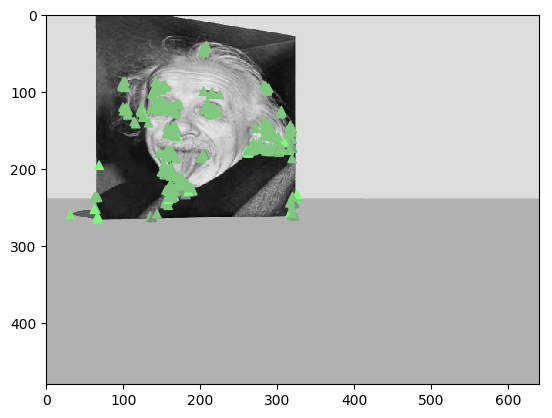
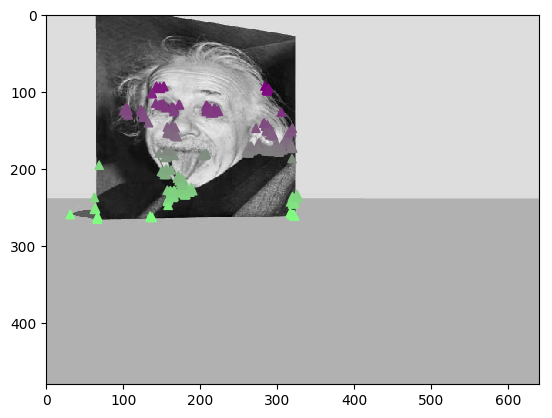
Add files via upload

diff --git a/l3_mapping.py b/l3_mapping.py
@@ -78,12 +78,12 @@ class FeatureProcessor:
             kp, des = self.get_features(img)
             matches = self.bf.match(des, des_0)
 
-            matches = sorted(matches, key=lambda x: x.distance)
+            #matches = sorted(matches, key=lambda x: x.distance)
             avg = sum(point.distance for point in matches)/len(matches)
 
             # lowes ratio test to get the good matches
             for match in matches:  # not sure if there's a better way to filter this
-                if match.distance < 0.75*avg:
+                if match.distance < 1.2*avg:
                     train_f_num = match.trainIdx
                     query_f_num = match.queryIdx
                     # print(train_f_num, query_f_num)
@@ -174,31 +174,56 @@ def triangulate(feature_data, tf, inv_K):
     :param tf: np array (num_images, 4, 4) - homogeneous transformations for each frame
     :param inv_K: np array (3, 3) - inverse of the camera intrinsics matrix
     :returns pt: np array (3, ) - point in 3D space """
-    # compute the unit normals in the direction of the feature
-    homogeneous_pts = np.hstack((feature_data, np.ones((tf.shape[0], 1))))
-    rays = np.zeros((67, 3), dtype=float)
-    for i in range(tf.shape[0]):
-        # check that the points are not -1 (i.e. no feature found) first.
-        if homogeneous_pts[i, 0] != -1 and homogeneous_pts[i, 1] != -1:
-            # print(np.dot(tf[i, 0:3, 0:3], np.dot(inv_K, homogeneous_pts[i, :]).T))
-            rays[i, :] = np.dot(tf[i, 0:3, 0:3], np.dot(inv_K, homogeneous_pts[i, :]).T)
-            # normalize the rays
-            rays[i, :] /= la.norm(rays[i, :])
 
-    # extract all the non-zero rays
-    rays = rays[~np.all(rays == 0, axis=1)]
-    # print(rays.shape)
-    # print(rays)
-
-    # compute the sums I - vj.T*vj and (I - vj.T*vj)*cj
+    tot_features = feature_data.shape[0]   #total number of features
     sum1 = np.zeros((3, 3), dtype=float)
-    sum2 = np.zeros((3,), dtype=float)
-    for i in range(rays.shape[0]):
-        sum1 += np.subtract(tf[i, 0:3, 0:3], np.dot(rays[i, :].T, rays[i, :]))
-        sum2 += np.dot(np.subtract(tf[i, 0:3, 0:3], np.dot(rays[i, :].T, rays[i, :])), tf[i, 0:3, 3])
+    sum2 = np.zeros((3,1), dtype=float)
+
+    for j in range(0, tot_features):
+        x, y = feature_data[j][0], feature_data[j][1]
+
+        if x<0 or y<0:
+            #print("Invalid")
+            continue
+        
+        r=np.array([x, y, 1]).reshape((3,1))
+        C = tf[j, 0:3, 0:3]
+        vj = C@inv_K@r
+        vj /= np.linalg.norm(vj)
+
+        cent_j = (tf[j][:3, 3]).reshape((3,1))
+        #print(cent_j.shape)
+
+        sum1 += np.identity(3) - (vj@vj.T)
+        sum2 += (np.identity(3) - (vj@vj.T))@cent_j
+
+
+
+    # compute the unit normals in the direction of the feature
+    # homogeneous_pts = np.hstack((feature_data, np.ones((tf.shape[0], 1))))
+    # rays = np.zeros((67, 3), dtype=float)
+    # for i in range(tf.shape[0]):
+    #     # check that the points are not -1 (i.e. no feature found) first.
+    #     if homogeneous_pts[i, 0] != -1 and homogeneous_pts[i, 1] != -1:
+    #         # print(np.dot(tf[i, 0:3, 0:3], np.dot(inv_K, homogeneous_pts[i, :]).T))
+    #         rays[i, :] = np.dot(tf[i, 0:3, 0:3], np.dot(inv_K, homogeneous_pts[i, :]).T)
+    #         # normalize the rays
+    #         rays[i, :] /= la.norm(rays[i, :])
+
+    # # extract all the non-zero rays
+    # rays = rays[~np.all(rays == 0, axis=1)]
+    # # print(rays.shape)
+    # # print(rays)
+
+    # # compute the sums I - vj.T*vj and (I - vj.T*vj)*cj
+    # sum1 = np.zeros((3, 3), dtype=float)
+    # sum2 = np.zeros((3,), dtype=float)
+    # for i in range(rays.shape[0]):
+    #     sum1 += np.subtract(tf[i, 0:3, 0:3], np.dot(rays[i, :].T, rays[i, :]))
+    #     sum2 += np.dot(np.subtract(tf[i, 0:3, 0:3], np.dot(rays[i, :].T, rays[i, :])), tf[i, 0:3, 3])
 
     point = np.dot(la.inv(sum1), sum2)
-    return point
+    return point.squeeze()
 
 def main():
     min_feature_views = 20  # minimum number of images a feature must be seen in to be considered useful
@@ -210,12 +235,28 @@ def main():
     # load in data, get consistent feature locations
     data_folder = os.path.join(os.getcwd(), 'l3_mapping_data/')
     f_processor = FeatureProcessor(data_folder)
+    
     # get_matches includes lowes ratio test for extracting good matches.
-    good_feature_locations = f_processor.get_matches()  # output shape should be (num_images, num_features, 2)
-    print('shape of matches: ' + str(good_feature_locations.shape))
-    num_landmarks = good_feature_locations.shape[1]
-    print('num landmarks: ' + str(num_landmarks))
-    num_frames = good_feature_locations.shape[0]
+    feature_locations = f_processor.get_matches()  # output shape should be (num_images, num_features, 2)
+    # print('shape of matches: ' + str(good_feature_locations.shape))
+    num_landmarks = feature_locations.shape[1]
+    # print('num landmarks: ' + str(num_landmarks))
+    num_frames = feature_locations.shape[0]
+
+    validFeat = np.zeros(num_landmarks)
+    
+    for frame in range(0, num_frames):
+        for landmark in range(0, num_landmarks):
+            if feature_locations[frame, landmark, 0] > -1 and feature_locations[frame, landmark, 1] > -1:
+               validFeat[landmark] += 1
+    
+    #create a boolean array for ever frame that meets our min feature criteria
+    final_landmarks = validFeat > min_feature_views 
+
+    #num_landmarks = np.sum(valid_features)
+    good_feature_locations = feature_locations[:, final_landmarks, :]
+    num_landmarks = np.sum(final_landmarks)
+    print(num_landmarks)
 
     pc = np.zeros((num_landmarks, 3))
 
@@ -228,8 +269,8 @@ def main():
     for i in range(num_landmarks):
         landmark = good_feature_locations[:, i, :]
         # check to make sure enough frames have seen this feature, w
-        if num_frames - (np.count_nonzero(landmark == -1) // 2) >= min_feature_views:
-            pc[i] = triangulate(landmark, tf_fixed, inv_K)
+        #if num_frames - (np.count_nonzero(landmark == -1) // 2) >= min_feature_views:
+        pc[i] = triangulate(landmark, tf_fixed, inv_K)
 
     # extract all the non-zero point cloud points
     # pc = pc[~np.all(pc == 0, axis=1)]
